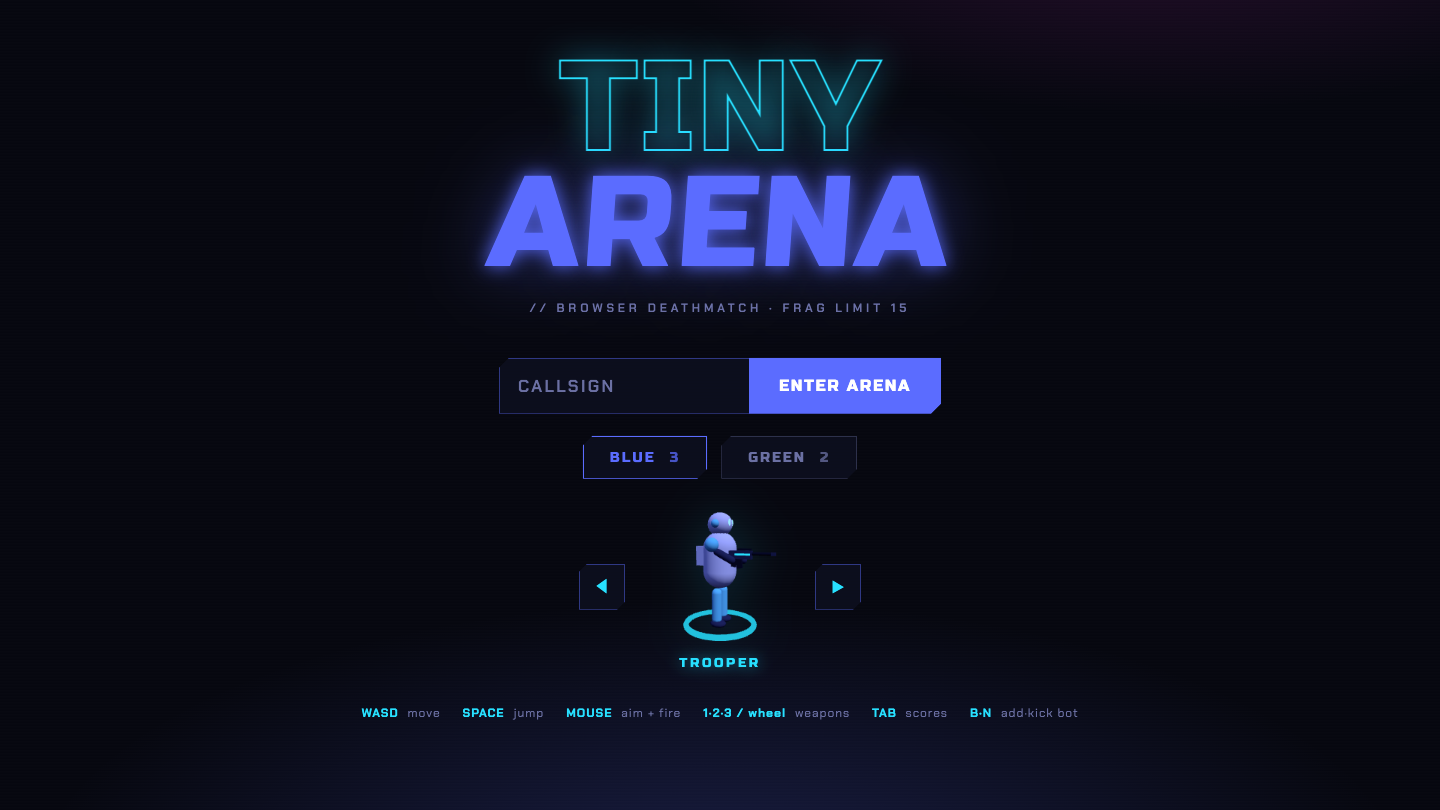
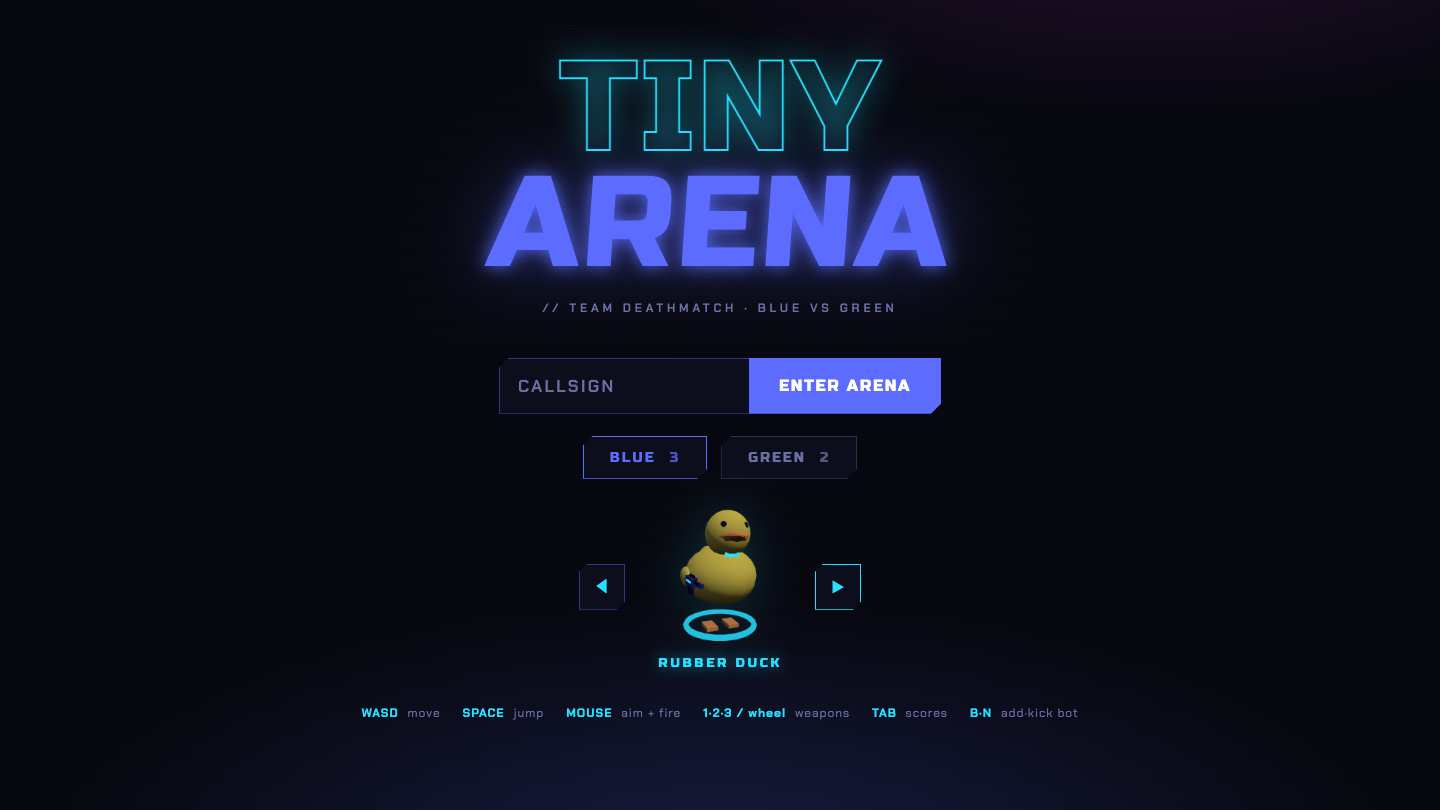
README: blue-versus-green front and center, fresh join screenshot

Changed region(s): [[0.4688, 0.6173, 0.5312, 0.7716], [0.375, 0.3704, 0.625, 0.4012], [0.4375, 0.8025, 0.5312, 0.8333]]

diff --git a/README.md b/README.md
@@ -29,11 +29,18 @@ Three maps ship in the binary, and the server rotates to the next one after ever
 ![circuit](docs/circuit.png)
 ![vertigo](docs/vertigo.png)
 
+## Blue versus green
+
+Every match is team deathmatch — there is no other mode. Pick a side at the join screen (it shows the live headcount of each team) and your color follows you everywhere: the ring under your feet, your name tag, the killfeed, the scoreboard. First team to 25 points wins the round; if the eight-minute clock runs out first, the leading team takes it, and a dead-even score is an honest draw. Friendly fire is on at half damage, and a teamkill costs you a frag and your team a point — aim your rockets with love.
+
+Bots keep the teams honest: they always join the smaller side, they never shoot their own, and the roster rotates itself — every few minutes one wanders off and a new body joins.
+
+![winscreen](docs/winscreen.png)
+![scoreboard](docs/teams.png)
+
 ## Play
 
-It's always team deathmatch: BLUE versus GREEN. Pick your side at the join screen (live player counts included) and pick a body — rubber duck, pizza slice, Christmas tree, retro PC, and eleven more low-poly desk heroes. Bots fill in on whichever team is smaller, they never shoot their own, and every few minutes one wanders off and a new face joins.
-
-![scoreboard](docs/teams.png)
+Pick a body — rubber duck, pizza slice, Christmas tree, retro PC, and eleven more low-poly desk heroes. Bots pick their own.
 
 ![join](docs/join.png)
 ![cast](docs/cast.png)
@@ -45,8 +52,6 @@ It's always team deathmatch: BLUE versus GREEN. Pick your side at the join scree
 - **QUAD DAMAGE** spawns on the east platform every 60 s: 3× damage for 20 s, lost on death, and everyone gets told you have it
 - Fast frags stack DOUBLE / TRIPLE / MULTI / MONSTER KILL; staying alive stacks KILLING SPREE (5), RAMPAGE (8), GODLIKE (12)
 - Death matters: the camera pulls out behind you while your body bursts into cubes that ride the killing blow
-- Matches run on a clock (8 minutes by default): first team to 25 points wins, or the leading team when time runs out — you get the standings before the next round, and the map rotates every match, humans present or not
-- Friendly fire is on at half damage. A teamkill costs you a frag and your team a point, so aim your rockets with love
 - Bots ride the jump pads too, so the high ground is never safe for long. They strafe-weave in firefights, snipe with the railgun across long sightlines, and run for health packs when hurt
 - Bots are named after their bodies: when QUACKERS rockets you off the map, that was the rubber duck. Watch out for FROSTY, SLICE, BOO, DUSTER, and the rest of the cast
 